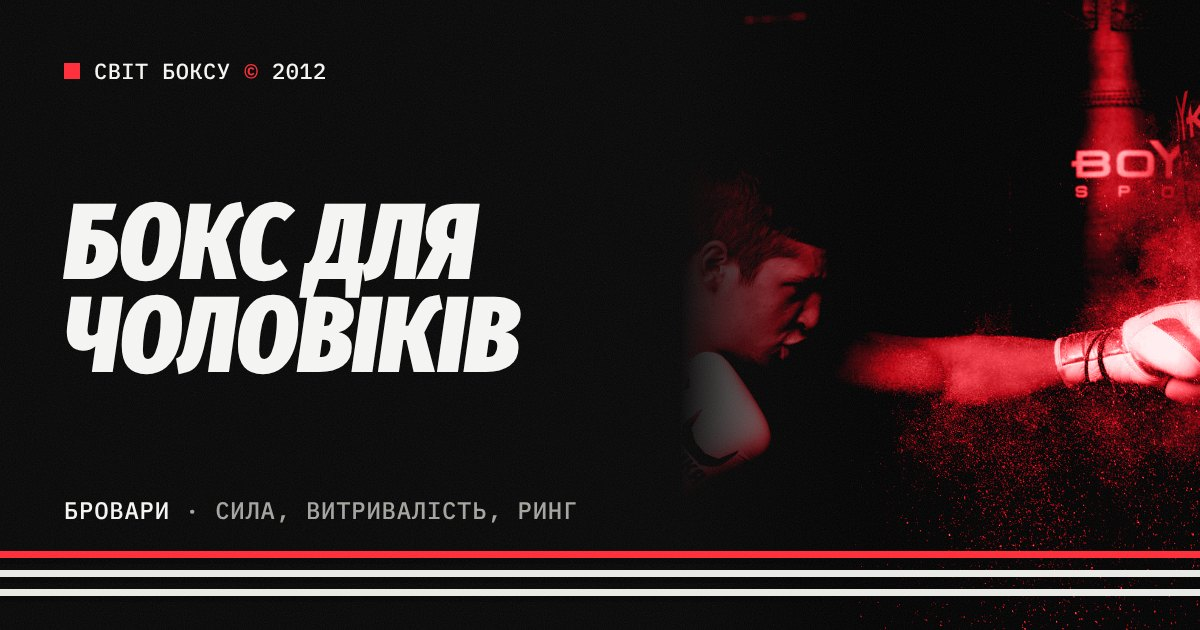
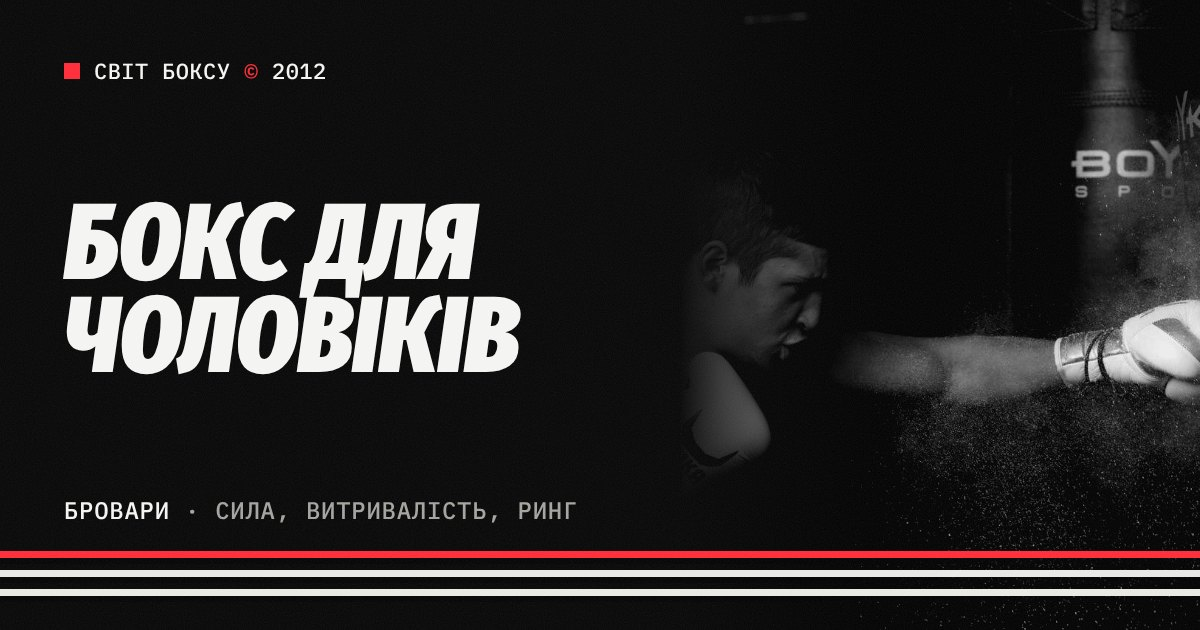
Photo grade: drop red duotone; b/w with grain, natural colour on hover; b/w social cards
Claude-Session: https://claude.ai/code/session_01R8TFbek5aCZdvnYE4C6eHs

Changed region(s): [[0.7092, 0.0, 1.0, 0.8444], [0.5858, 0.3619, 0.7092, 0.573], [0.5858, 0.6032, 0.6475, 0.7238]]

diff --git a/src/styles/global.css b/src/styles/global.css
@@ -22,8 +22,7 @@
   --t-slow: .6s;
   /* Photo grade */
   --grade: grayscale(1) contrast(1.18) brightness(.88);
-  --grade-hot: grayscale(1) contrast(1.25) brightness(.95);
-  --duo: #d6202d;
+  --grade-hot: grayscale(0) contrast(1.05) brightness(1);
   color-scheme: dark;
 }
 
@@ -160,16 +159,13 @@ section.blk { border-bottom: 1px solid var(--line); padding-block: clamp(64px, 9
 .ph.photo.reveal:hover img,
 .reveal-parent:hover .ph img { transform: scale(1.04); }
 
-/* One poster grade for every photo on the site: black-and-white with deep blacks;
-   on hover the backing turns red and the photo (blended by luminosity) becomes a red duotone. */
-.ph.photo, .coach-ph, .follow { isolation: isolate; background-color: #0a0a0a; transition: background-color var(--t-slow) var(--ease-out); }
+/* One grade for every photo on the site: black-and-white with deep blacks;
+   on hover the photo gently comes back to its natural colours. */
+.ph.photo, .coach-ph, .follow { background-color: #0a0a0a; }
 .ph.photo img, .coach-ph img, .follow img, .pg-photo, .ty-photo {
-  mix-blend-mode: luminosity; filter: var(--grade);
+  filter: var(--grade);
   transition: filter var(--t-slow) var(--ease-out), transform .8s var(--ease-out);
 }
-.ph.photo.reveal:hover, .reveal-parent:hover .ph.photo, .coach-ph:hover, .follow,
-.pg-gal-grid .ph.photo:hover, .pg-gal-grid .ph.photo:focus-visible,
-.pg-rounds li:hover .pg-round-ph, .tz-row:hover .tz-ph { background-color: var(--duo); }
 .ph.photo.reveal:hover img, .reveal-parent:hover .ph.photo img, .coach-ph:hover img, .follow img,
 .pg-gal-grid .ph.photo:hover img, .pg-gal-grid .ph.photo:focus-visible img,
 .pg-rounds li:hover .pg-round-ph img, .tz-row:hover .tz-ph img { filter: var(--grade-hot); }
